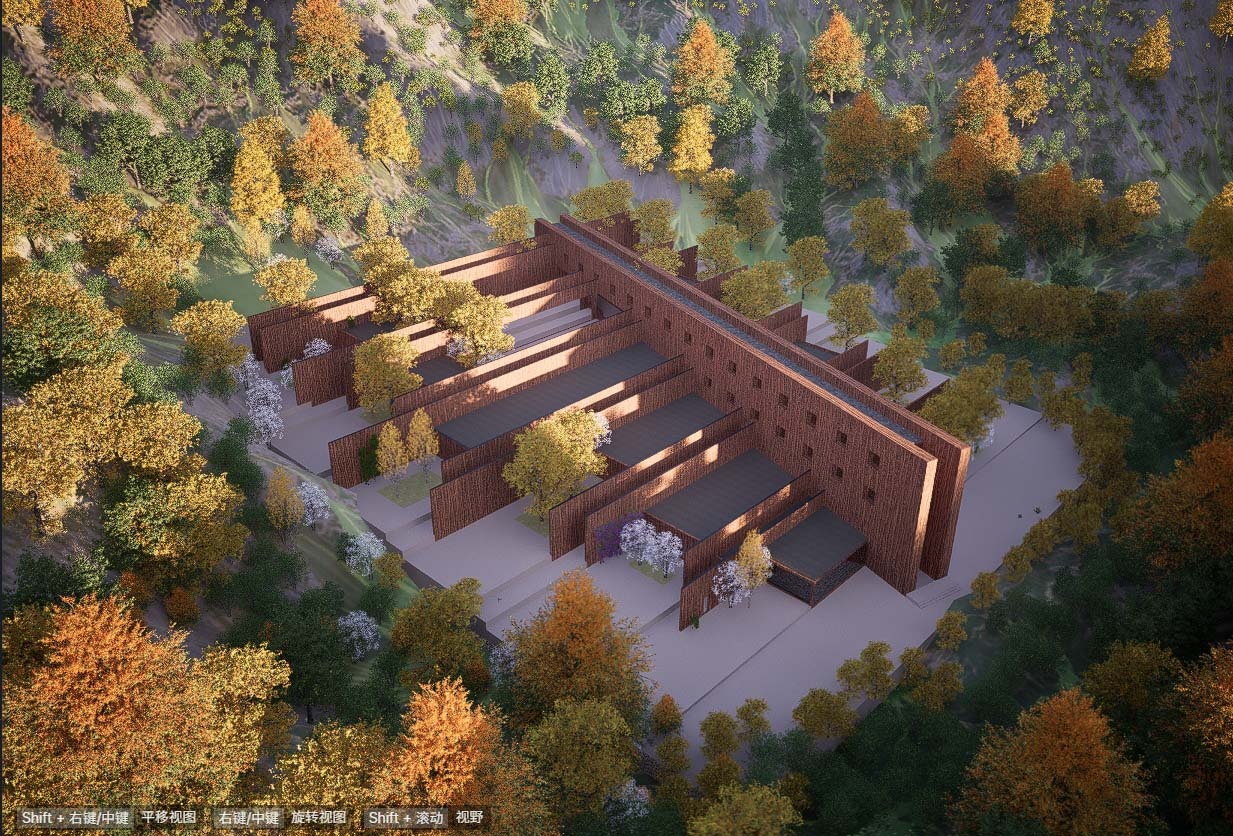
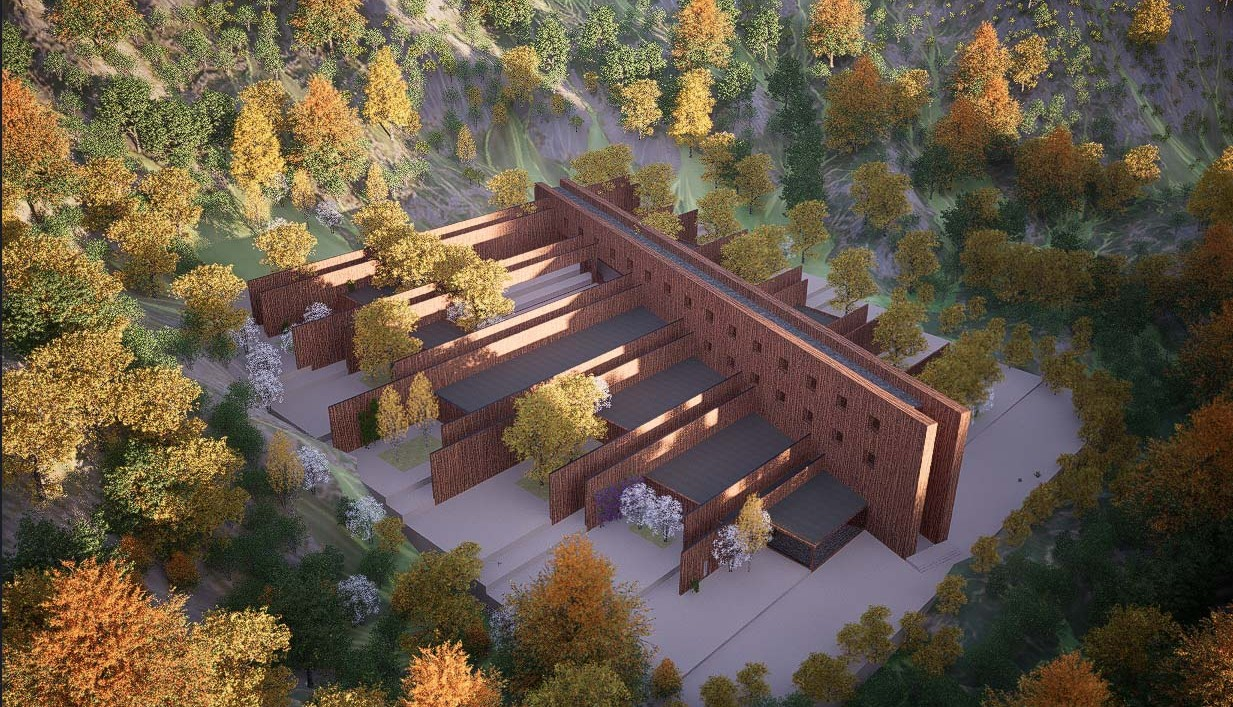
chore: 首页背景改为 博物馆首页.png

diff --git a/Digital_museum/src/views/shanxi/ShanxiIndexPage.vue b/Digital_museum/src/views/shanxi/ShanxiIndexPage.vue
@@ -38,7 +38,7 @@ export default {
     // 动态设置背景图片
     const bgElement = this.$el.querySelector('.index-background');
     if (bgElement) {
-      bgElement.style.backgroundImage = `url(${require('@/assets/images/首页.jpg')})`;
+      bgElement.style.backgroundImage = `url(${require('@/assets/images/博物馆首页.png')})`;
     }
   },
   destroyed() {
